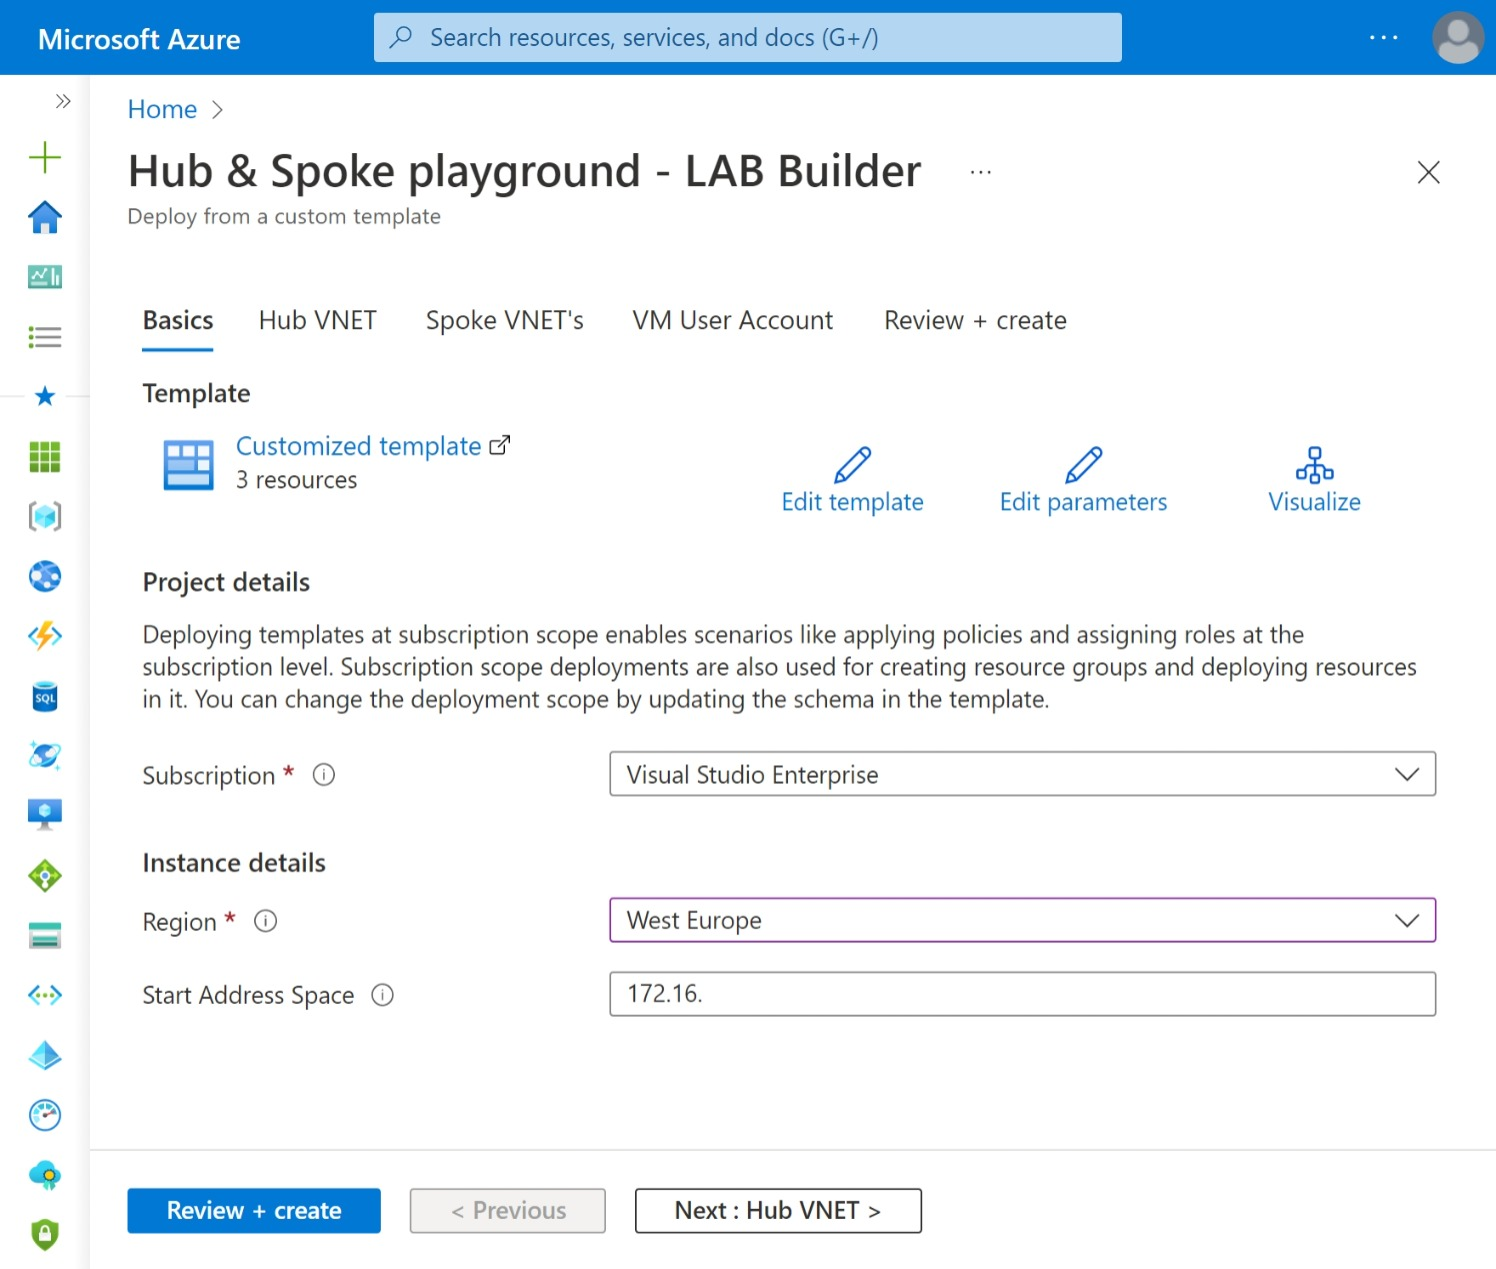
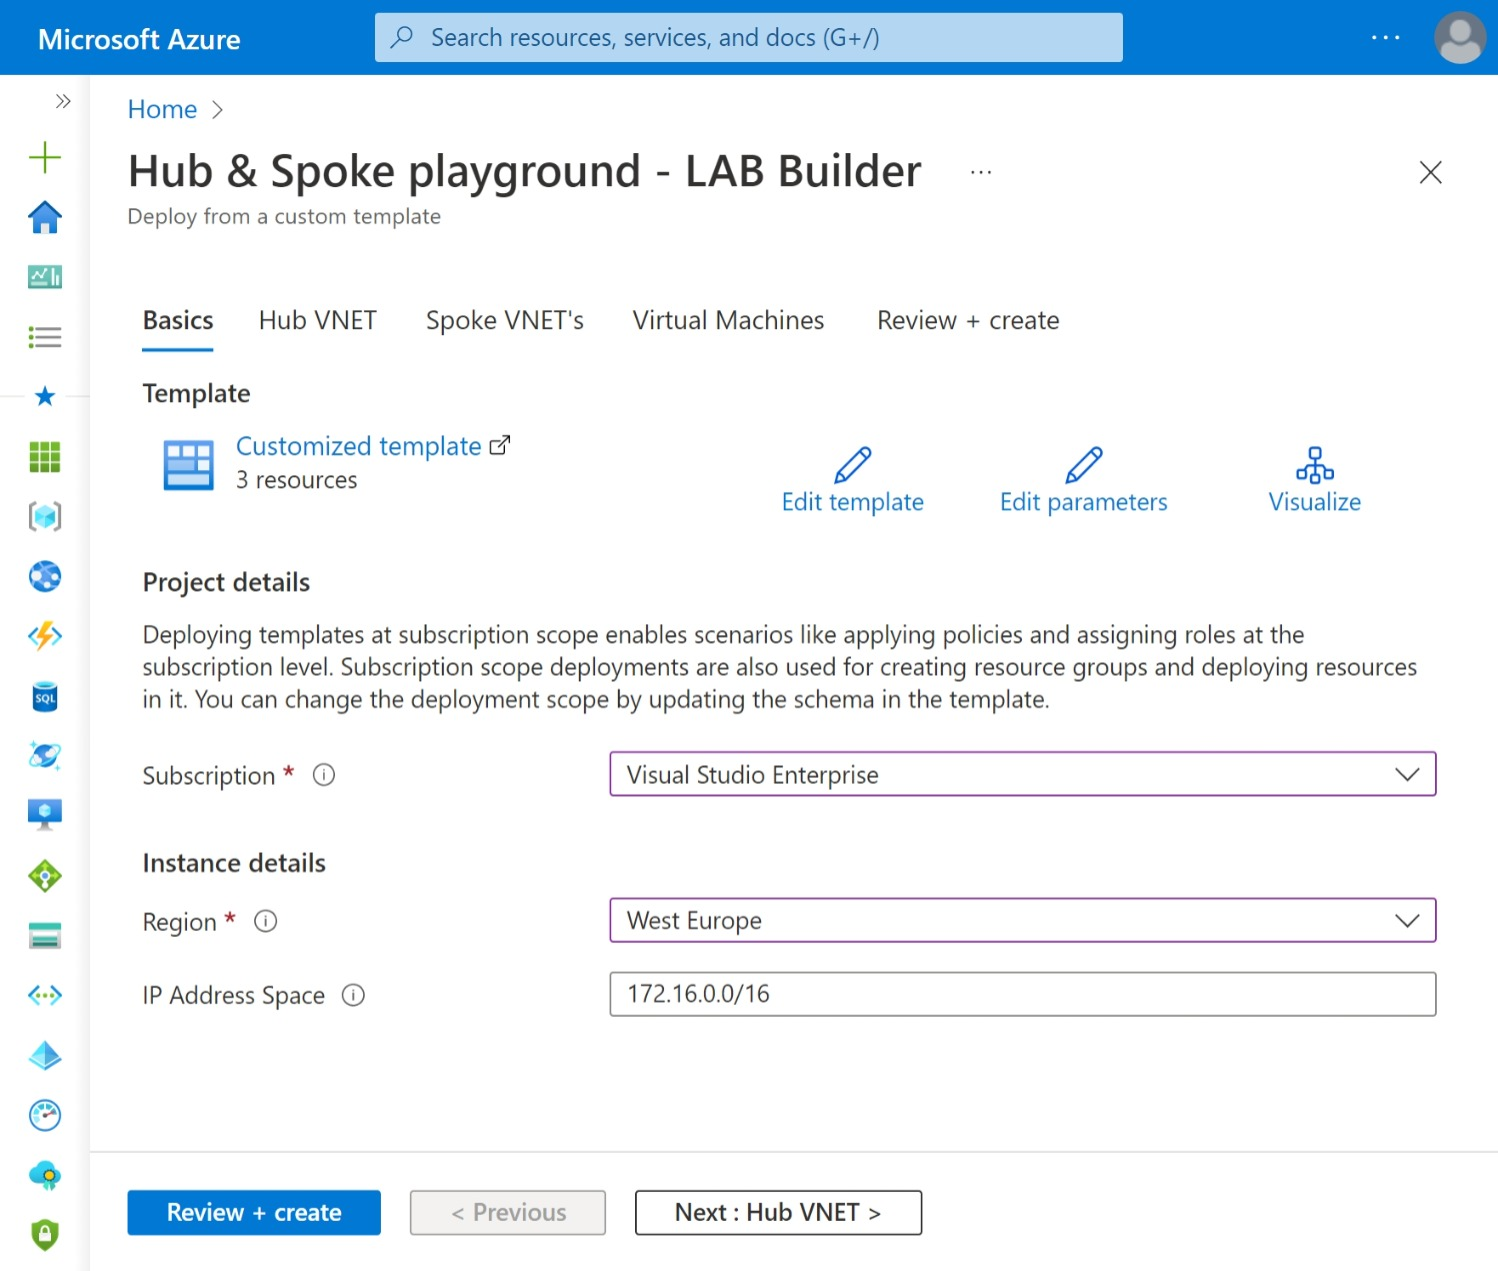
update readme and screenshots

diff --git a/README.md b/README.md
@@ -51,7 +51,7 @@ Within these three **main** scenario's there are multiple options:
 |Scenrio|What gets deployed|
 |-|-|
 |**1. Only deploy Spokes**|- Resource Group (rg-Spoke#)<br>- Virtual Network (VNET-Spoke#)<br>- Network Security Group (NSG-Spoke#) linked to 'Default' Subnet<br>- Subnet (Default)<br>- [optional] Subnet (AzureBastionSubnet)<br>- [optional] Subnet (AzureFirewallSubnet)<br>- [optional] Azure Bastion Host (Bastion-Spoke#) incl. Public IP<br>- [optional] Azure Virtual Machine (Windows)<br><br>*Only in combination with Firewall in Hub:*<br>- Route table (RT-Hub) linked to 'Default' Subnet, with default route to Azure Firewall|
-|**2. Only deploy Hub**|- Resource Group (rg-Hub)<br>- Virtual Network (VNET-Hub)<br>- Network Security Group (NSG-Hub) linked to 'Default' Subnet<br>- Subnet (Default)<br>- [optional] Subnet (AzureBastionSubnet)<br>- [optional] Subnet (AzureFirewallSubnet)<br>- [optional] Azure Bastion Host (Bastion-Hub) incl. Public IP <br>- [optional] Azure Firewall (AzFw) incl. Public IP<br>- [optional] Azure Firewall Policy (AzFwPolicy)<br>- [optional] Azure Virtual Machine (Windows)<br><br>*Only in combination with Firewall in Hub:*<br>- Route table (RT-Hub) linked to 'Default' Subnet, with default route to Azure Firewall|
+|**2. Only deploy Hub**|- Resource Group (rg-Hub)<br>- Virtual Network (VNET-Hub)<br>- Network Security Group (NSG-Hub) linked to 'Default' Subnet<br>- Subnet (Default)<br>- [optional] Subnet (AzureBastionSubnet)<br>- [optional] Subnet (AzureFirewallSubnet)<br>- [optional] Azure Bastion Host (Bastion-Hub) incl. Public IP <br>- [optional] Azure Firewall (AzFw) incl. Public IP<br>- [optional] Azure Firewall Policy (AzFwPolicy)<br>- [optional] Azure Firewall Policy rule Collection Group<br>- [optional] Azure Virtual Machine (Windows)<br><br>*Only in combination with Firewall in Hub:*<br>- Route table (RT-Hub) linked to 'Default' Subnet, with default route to Azure Firewall|
 |**3. Deploy Hub and Spokes**|includes all from scenario 1 and 2, incl:<br>- VNET Peerings|
 
 ## Topology drawing
@@ -62,10 +62,10 @@ Within these three **main** scenario's there are multiple options:
 
 |Step|Screenshot|
 |-|-|
-|Select Subscription and Region<br>Enter the first two octets of a **/16** subnet<br>example: **172.16.**<br><br>*Note: Hub VNET will always get the first available /24 subnet, first spoke the second subnet etc.<br>like:<br>172.16.0.0/24 = Hub VNET<br>172.16.1.0/24 = Spoke1<br>172.16.2.0/24 = Spoke2<br>etc.*|![Step1](images/DeployToAzure-Step1.png)|
-|Deploy Hub<br>Optional enable:<br>- Azure Bastion<br>- Virtual Machine<br>- Azure Firewall Standard or Premium|![Step2](images/DeployToAzure-Step2.png)|
-|Deploy Spokes<br>Enter amount of Spokes to deploy (Max 25)<br>Optional enable:<br>- Virtual Machine<br>- Azure Bastion<br><br> *Note: VM and Azure Bastion will be deployed in every Spoke*|![Step3](images/DeployToAzure-Step3.png)|
-|Enter Local Admin credentials If Virtual Machine is selected for Hub and/or Spoke|![Step4](images/DeployToAzure-Step4.png)|
+|Select Subscription and Region<br>Enter the a **/16** subnet<br>example: **172.16.0.0/16**<br><br>*Note: Hub VNET will always get the first available /24 subnet, first spoke the second subnet etc.<br>like:<br>172.16.0.0/24 = Hub VNET<br>172.16.1.0/24 = Spoke1<br>172.16.2.0/24 = Spoke2<br>etc.*|![Step1](images/DeployToAzure-Step1.png)|
+|Deploy Hub<br>Optional enable:<br>- Azure Bastion<br>- Azure Firewall Standard or Premium<bR>- Azure Firewall Policy rule Collection group|![Step2](images/DeployToAzure-Step2.png)|
+|Deploy Spokes<br>Enter amount of Spokes to deploy (Max 25)<br>Optional enable:<br>- Azure Bastion<br><br> *Note: VM and Azure Bastion will be deployed in every Spoke*|![Step3](images/DeployToAzure-Step3.png)|
+|Enable Virtual Machine deployment in Hub and/or Spoke.<br><br>Enter Local Admin credentials If Virtual Machine is selected for Hub and/or Spoke|![Step4](images/DeployToAzure-Step4.png)|
 |Validate and Deploy|![Step5](images/DeployToAzure-Step5.png)|
 
 ## Deployment notes
@@ -76,24 +76,28 @@ Within these three **main** scenario's there are multiple options:
 - Route tables incl. Default route will be deployed if Azure Firewall is selected (0.0.0.0/0 -> Azure Firewall)
 - Network Security group will be deplyed to 'default' subnet only
 - At deployemt use a /16 subnet. every VNET (Hub and Spoke VNET's) will get a /24 subnet
-- Hub VNET will always get the first available /24 subnet, first spoke the second subnet etc.
-- VNET's subnets:
+- Hub VNET will always get the first available /24 subnet, first spoke the second subnet etc. see subnet details:
+
+*Spoke VNET's subnets:*
 
 |Subnet Name|Subnet address range|notes|
 |-|-|-|
 |default|x.x.Y.0/24||
-|AzureFirewallSubnet|x.x.Y.128/26|Only applicable for Hub VNET with Azure Firewall selected|
 |AzureBastionSubnet|x.x.Y.192/26|Only when Bastion is selected|
 
-*note1: x.x. = 'Start Address Space'*
-*note2: Y = 0 for Hub VNET 1 and onward for Spoke VNET's*
+*Hub VNET subnets:*
+
+|Subnet Name|Subnet address range|notes|
+|-|-|-|
+|default|x.x.0.0/24||
+|AzureFirewallSubnet|x.x.0.128/26|Only applicable for Hub VNET with Azure Firewall selected|
+|AzureBastionSubnet|x.x.0.192/26|Only when Bastion is selected|
+
 
 ## Resource Names
 
 |Type|Name|
 |-|-|
-|Hub Resource group|rg-hub-[AzureRegion]|
-|Spoke Resource group|rg-spoke#-[AzureRegion]|
 |Hub VNET|VNET-Hub|
 |Spoke VNET's|VNET-Spoke#|
 |Hub Virtual Machine|VM-Hub|
@@ -115,21 +119,26 @@ Within these three **main** scenario's there are multiple options:
 |-|-|-|-|
 |adminUsername|string|n/a|Admin username for VM|
 |adminPassword|secure string|n/a|Admin password for VM|
-|startAddressSpace|string|172.16.|IP Address space used for VNETs in deployment.<br>Only enter the two first octets of a /16 subnet. Default = 172.16.|
+|AddressSpace|string|172.16.0.0/16|IP Address space used for VNETs in deployment.<br>Only enter a /16 subnet. Default = 172.16.0.0/16|
 |location|string|deployment().location|Azure Region. Defualt = Deployment location|
 |deploySpokes|bool|true|Deploy Spoke VNETs|
+|spokeRgNamePrefix|string|rg-spoke|Spoke Resource Group prefix name.<br>With default value set, spoke resource groups will be: rg-spoke1, rg-spoke2 etc.|
 |amountOfSpokes|int|2|Amount of Spoke VNETs you want to deploy. Default = 2|
 |deployVMsInSpokes|bool|true|Deploy VM in every Spoke VNET|
 |deployBastionInSpoke|bool|false|Deploy Bastion Host in every Spoke VNET|
-|DeployHUB|bool|true|bool|Deploy Hub VNET|
+|deployHUB|bool|true|bool|Deploy Hub VNET|
+|hubRgName|string|rg-hub|Hub Resource Group Name
 |deployBastionInHub|bool|true|Deploy Bastion Host in Hub VNET|
 |deployVMinHub|bool|true|Deploy VM in Hub VNET|
 |deployFirewallInHub|bool|true|Deploy Azure Firewall in Hub VNET.<br>Includes deployment of custom route tables in Spokes and Hub VNETs|
 |AzureFirewallTier|string|Standard|Azure Firewall Tier: Standard or Premium|
+|deployFirewallrules|bool|false|Deploy firewall policy rule collection group which enables spoke-to-spoke traffic and internet traffic|
 
 ### ~~Backlog~~... whishlist items
 
 - Choose between Azure vWAN and Hub & Spoke
-- Add default Firewall Network & Application rules
+- ~~Add default Firewall Network & Application rules~~
 - Deploy separate VNET (simulate OnPrem) and deploy VPN gateways including Site-to-Site tunnel
+- ~~remove static Resource Group names~~
+- ~~use CIDR notation as Address Space (Instead of first two octets)~~
 - etc...
